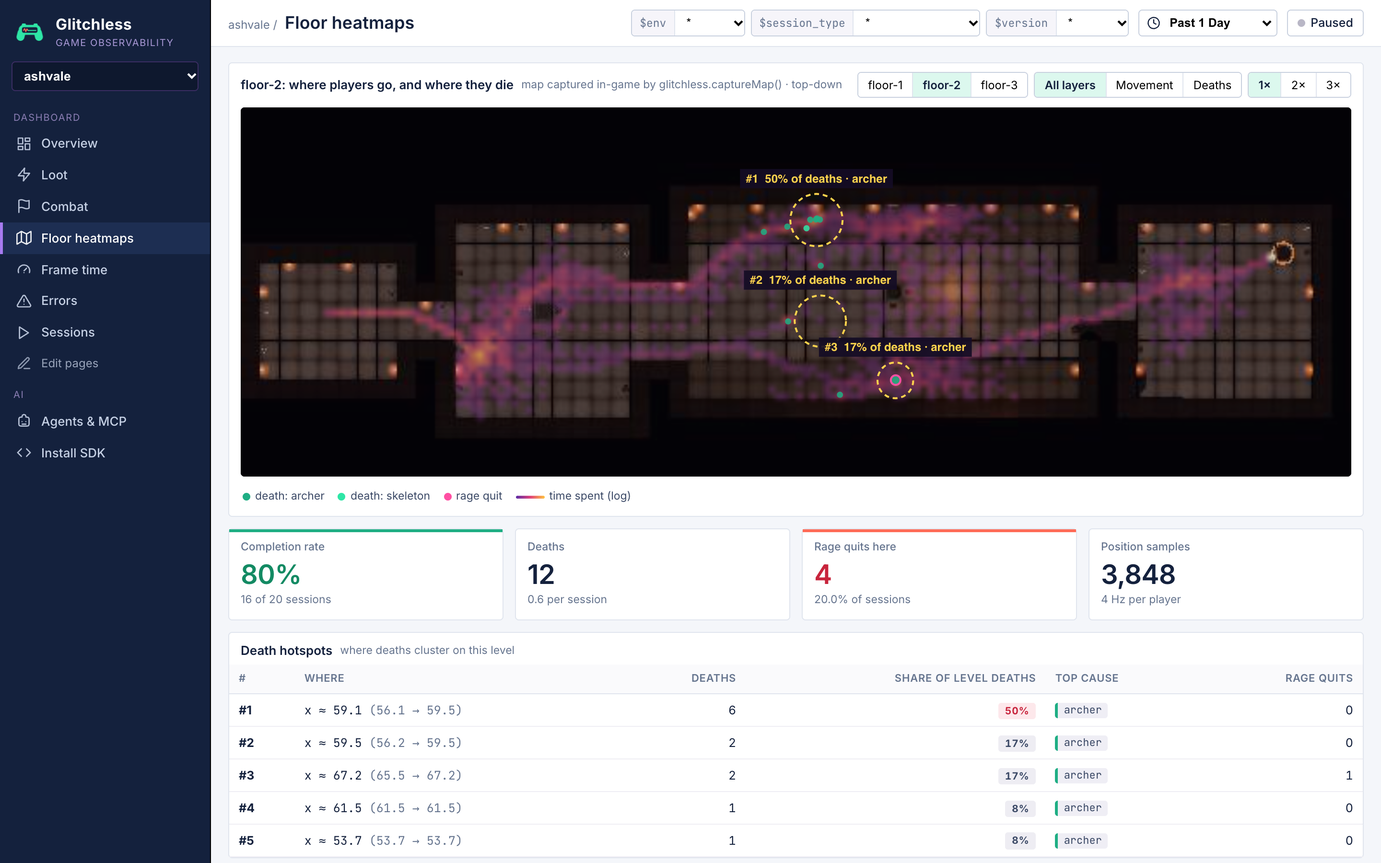
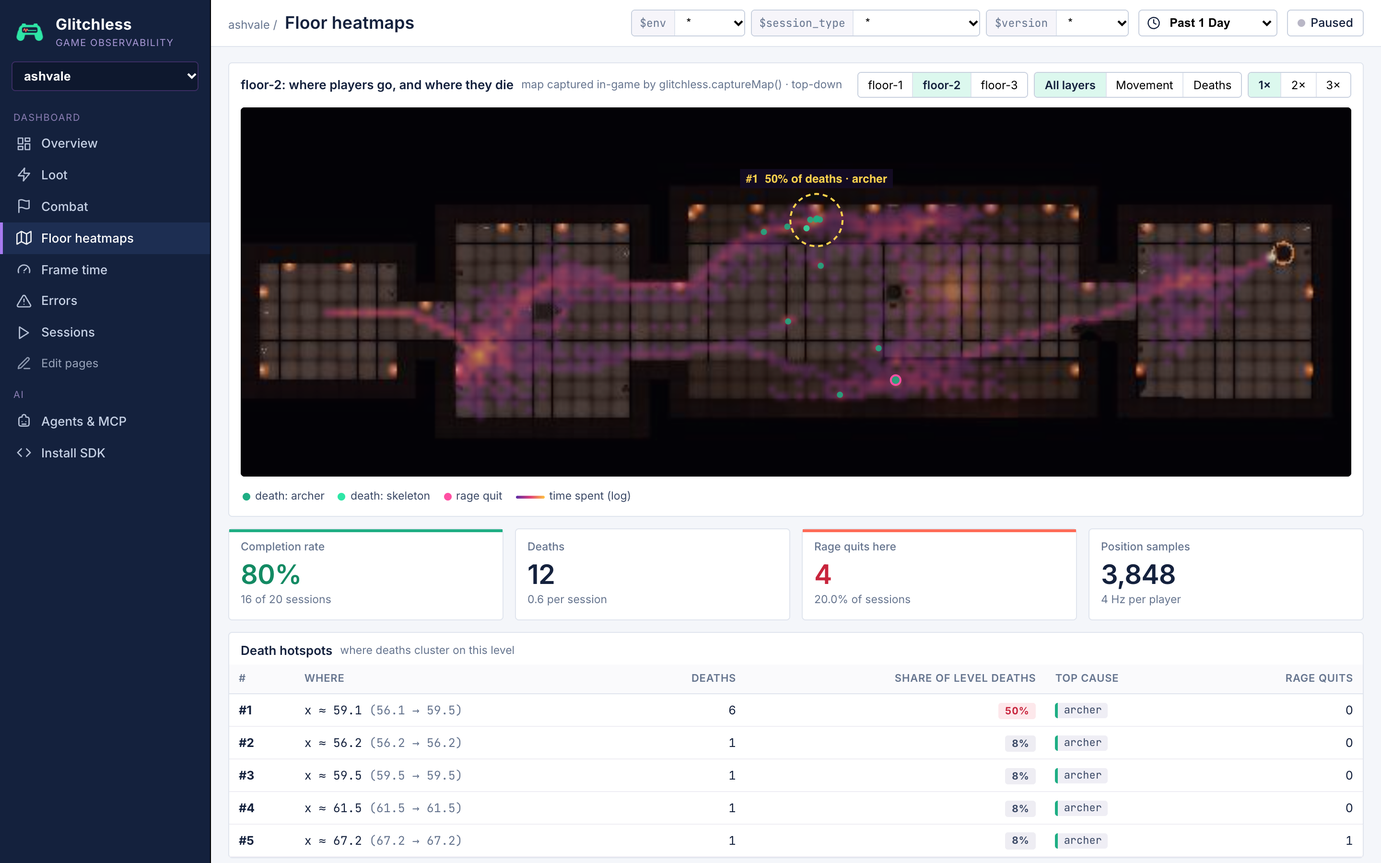
Findings refreshed for the server's genre-aware rules
The local Glitchless server now judges these games on their own terms, so the
READMEs and the captures that showed the old findings are updated:

- Walls without deaths are findings: Gatekeep's wave 7, Gemfall's level 6,
  Blastpit's round 3.
- Gatekeep's health-bar texture leak is a finding.
- Flapjack has no rage quits (an endless game ends every run in a death), and
  its hotspot says where runs end.
- Climbing gauges join the leak findings (Slipstream's skid_marks, Gemfall's
  particles, Flapjack's pipes) or stand alone (Ashvale's damage_numbers).
- Top-down hotspots give x and z (Slipstream, Ashvale), and Undervault's rage
  quits land on the spike pit.
- Errors players play through no longer count as crashes: Blastpit, Gemfall
  and Ashvale are 100% crash-free, so the planted errors are called errors.

18 dashboard captures re-shot; the rest read the same. Blastpit's are shot
with $env = prod, leaving out two short dev-env visits that arrived later.

Changed region(s): [[0.5938, 0.3733, 0.7188, 0.4356], [0.5312, 0.3111, 0.6562, 0.3422]]

diff --git a/games/ashvale/README.md b/games/ashvale/README.md
@@ -144,8 +144,8 @@ Search for `GLITCHLESS-DEMO`.
 
 | # | Problem | Where | What happens | What Glitchless should show |
 | --- | --- | --- | --- | --- |
-| 1 | **Damage numbers that are never removed** (a DOM leak the GPU never sees) | `src/numbers.js:8-10` (the `numbers` list nothing is taken out of), `:27-31` (`animationend` only sets `opacity: 0`), `:36-46` (`updateNumbers`: every number ever made, every frame, `offsetWidth` read at :43 after the previous number's `style.transform` write at :45); called from `src/main.js:623`, numbers made by `showHit()` at `src/main.js:233` | Every hit, burn tick, XP gain, gold pickup and heal adds a `<div>` with a `<span>` per character (a run makes 400-550 numbers, 1,000-2,000 nodes). When the float-up animation ends the number is only hidden. Each frame the game still projects every one of them with `vector.project(camera)`, reads its `offsetWidth` and writes its `style.transform`, so style recalculation and layout run once per dead number. The cost grows all session and peaks in the boss fight, where novas and burn ticks pile on numbers. Draw calls, geometries and programs stay flat: the three.js counters see nothing | Frame time and hitches climbing floor by floor (worst on floor-3), the `damage_numbers` gauge climbing all session and high in the slow windows, hitch cause `script` (Long Animation Frames), flat draw calls. `ashvale_spawn_hits` reproduces it on demand. (unmeasured: machine busy; on the test run the gauge went 0 → 1,962 and floor-3 p95 read 33 ms vs 16.8 on floors 1-2) |
-| 2 | **The legendary crash** (an error in one item type) | `src/gear.js:11-18` (`RARITY_STATS` has `common`, `magic`, `rare`, no `legendary`), throws at `src/gear.js:59` in `compare()`, called from `src/sim.js:942` (`pickUp`) right after the `loot` event at `src/sim.js:939` | Walking onto a legendary sends `loot {rarity: legendary}`, then `compare()` throws `TypeError: Cannot read properties of undefined (reading 'mult')`. The item stays on the floor (its orange beam keeps shining) and is never equipped; the rest of that frame is skipped and the loop carries on. Stepping onto it again throws again. Legendaries are 3.5% of gear drops (about 1 run in 5 finds one), and the Ash Lord always drops one | An unhandled error issue at `compare (gear.js:59)` in every session that beats the Ash Lord and a few others, on `floor-3` (and wherever a random legendary dropped), with `loot` as the breadcrumb right before it; `loot` with `rarity: legendary` but no `equip` with it. The scratch server showed 8 occurrences in 3 of 7 sessions, on floor-1 and floor-3, "typically right after: skill → skill → kill → loot" |
+| 1 | **Damage numbers that are never removed** (a DOM leak the GPU never sees) | `src/numbers.js:8-10` (the `numbers` list nothing is taken out of), `:27-31` (`animationend` only sets `opacity: 0`), `:36-46` (`updateNumbers`: every number ever made, every frame, `offsetWidth` read at :43 after the previous number's `style.transform` write at :45); called from `src/main.js:623`, numbers made by `showHit()` at `src/main.js:233` | Every hit, burn tick, XP gain, gold pickup and heal adds a `<div>` with a `<span>` per character (a run makes 400-550 numbers, 1,000-2,000 nodes). When the float-up animation ends the number is only hidden. Each frame the game still projects every one of them with `vector.project(camera)`, reads its `offsetWidth` and writes its `style.transform`, so style recalculation and layout run once per dead number. The cost grows all session and peaks in the boss fight, where novas and burn ticks pile on numbers. Draw calls, geometries and programs stay flat: the three.js counters see nothing | Frame time and hitches climbing floor by floor (worst on floor-3), the `damage_numbers` gauge climbing all session and high in the slow windows, hitch cause `script` (Long Animation Frames), flat draw calls, and a memory finding for the gauge (*`damage_numbers` keeps climbing*). `ashvale_spawn_hits` reproduces it on demand. (unmeasured: machine busy; on the test run the gauge went 0 → 1,962 and floor-3 p95 read 33 ms vs 16.8 on floors 1-2) |
+| 2 | **The legendary error** (an error in one item type) | `src/gear.js:11-18` (`RARITY_STATS` has `common`, `magic`, `rare`, no `legendary`), throws at `src/gear.js:59` in `compare()`, called from `src/sim.js:942` (`pickUp`) right after the `loot` event at `src/sim.js:939` | Walking onto a legendary sends `loot {rarity: legendary}`, then `compare()` throws `TypeError: Cannot read properties of undefined (reading 'mult')`. The item stays on the floor (its orange beam keeps shining) and is never equipped; the rest of that frame is skipped and the loop carries on. Stepping onto it again throws again. Legendaries are 3.5% of gear drops (about 1 run in 5 finds one), and the Ash Lord always drops one | An unhandled error issue at `compare (gear.js:59)` in every session that beats the Ash Lord and a few others, on `floor-3` (and wherever a random legendary dropped), with `loot` as the breadcrumb right before it; `loot` with `rarity: legendary` but no `equip` with it. The scratch server showed 8 occurrences in 3 of 7 sessions, on floor-1 and floor-3, "typically right after: skill → skill → kill → loot" |
 | 3 | **The Archers' Gallery** (difficulty spike on one floor) | `src/floors.js:90-106` (six ledge archers and the gallery's `archer` overrides at :106: 40 base health vs 30, arrows at 28 m/s vs 11, a 0.32 s draw vs 0.7, a 0.9 s reload vs 2.2, range 22 m, 17 damage), the ledges at `:124-127`, the one (broken) pillar at `:130` | Six archers on the raised ledges along both long walls fire into a 12 m-wide hall with one broken pillar for cover, faster than anywhere else in the game. Arrows from the far side arrive in about half a second, so only quick players roll out of them. Dying sends you back to the floor's start, through the guard room again | `floor-2` with the worst completion (scratch server: floor-1 100%, floor-2 50%, floor-3 60%; the simulated batch 100 / 52 / 83%), deaths clustered in the gallery on the floor-2 heatmap, `archer` as the top cause, rage quits ending there, and a design finding "Difficulty spike on floor-2 at x≈58.5: 40% of the level's deaths" |
 
 ## Files
@@ -185,11 +185,13 @@ What Glitchless found in 20 bot sessions (`npm run bots -- --game http://localho
 
 - **high, stability:** *TypeError: Cannot read properties of undefined (reading 'mult')* at `compare (gear.js:59)`, 38
   times in 15 of 20 sessions, "typically right after: kill → skill → kill → loot". On the Loot page, 38 legendaries
-  dropped and 0 were equipped.
-- **medium, design:** *Difficulty spike on floor-2 at x≈59.1: 50% of the level's deaths*, mostly `archer`: the
-  Archers' Gallery, with floor 2's completion 20 points below floor 1 and 4 runs given up there.
-- **The damage-number leak shows in its gauge, not in the findings:** `damage_numbers` climbs to 1,400–1,960 nodes by
-  the Ash Lord, and floor 3 runs 2.6% of frames over budget (one session 12%), with hitches named `script`. On an M3 Max
-  that is too little for a frame-time finding; a slower machine would show it.
+  dropped and 0 were equipped. The run carries on after it, so no session counts as crashed.
+- **medium, memory:** *`damage_numbers` keeps climbing: median 0 → 1,466 per session*: in all 20 sessions the gauge was
+  still at its peak when the session ended (1,400–1,960 nodes by the Ash Lord). Floor 3 runs 2.6% of frames over budget
+  (one session 12%), with hitches named `script`: on an M3 Max too little for a frame-time finding, so the gauge is what
+  catches the leak.
+- **medium, design:** *Difficulty spike on floor-2 at x≈59.1, z≈11.6: 50% of the level's deaths*, mostly `archer`, in
+  x 56.1 to 59.5, z 11.4 to 12.4: the Archers' Gallery, with floor 2's completion 20 points below floor 1 and 4 runs
+  given up there.
 
 ![The Ashvale dashboard](../../assets/screenshots/ashvale-dashboard.png)

diff --git a/games/gemfall/README.md b/games/gemfall/README.md
@@ -154,9 +154,9 @@ Search for `GLITCHLESS-DEMO`.
 
 | # | Problem | Where | What happens | What Glitchless shows (16 bot sessions on a local server) |
 | --- | --- | --- | --- | --- |
-| 1 | **Level 6 is a wall** (a difficulty spike with no deaths) | `src/levels.js:74-86` | Level 5 asks for 15 stones in 22 moves with five colours. Level 6 asks for 40 stones (five full rows) in 16 moves with six colours, so far fewer cascades. It reads as "the next quarry level" and plays as a brick wall: even the 0.95 bot ran out of moves at 38-39 of 40. | The level funnel: `level-6` completion **16.7%** (2 of 12 sessions) with **31 fails in 33 attempts**, against 92-100% on every other level. **10 of the 12 rage quits** (a session ending right after a `levelFail`) are on level 6. `level_result` has `stars: 0` with `moves_left: 0` as its most common value (42 of 121). There are no deaths, so there is no ranked design finding for it: Glitchless builds those from death positions. |
+| 1 | **Level 6 is a wall** (a difficulty spike with no deaths) | `src/levels.js:74-86` | Level 5 asks for 15 stones in 22 moves with five colours. Level 6 asks for 40 stones (five full rows) in 16 moves with six colours, so far fewer cascades. It reads as "the next quarry level" and plays as a brick wall: even the 0.95 bot ran out of moves at 38-39 of 40. | The level funnel: `level-6` completion **16.7%** (2 of 12 sessions) with **31 fails in 33 attempts**, against 92-100% on every other level. **10 of the 12 rage quits** (a session ending right after a `levelFail`) are on level 6. `level_result` has `stars: 0` with `moves_left: 0` as its most common value (42 of 121). There are no deaths, so its ranked design finding comes from the completion rate: *level-6 is a wall*. |
 | 2 | **Cascade particles never cleaned up** (stutter plus a leak) | `src/fx.js:129-159` (`burst()`: new geometry at 140, new material at 143, added at 150, the glint at 153); `src/fx.js:228` (shards only hidden) and `src/fx.js:237` (glints only faded); the `particles` gauge at `src/main.js:721` | Every cleared gem spawns 12 shard meshes, each with its own geometry and material, plus a glint. A combo that clears 40-60 gems in one step makes 500-900 meshes in one frame (`gemfall_cascade`: 58 gems → 876 shards, geometries 25 → 902). Nothing is ever removed or disposed: shards are hidden when they fade, glints are faded to opacity 0 and keep drawing. | A **high "Geometry leak in 1.0.0: +1178 geometries per level load"** finding (median 26 → 9,807 geometries per session). Draw calls climb level by level, from 128 on level-1 to 862 on level-8 (max 1,351). The `particles` gauge reaches ~10,000. Hitches attributed to `geometry_upload` (4 so far). The size of the cascade hitch is **unmeasured: machine busy** (the bots ran while other apps were compiling, so frame times are not representative). |
-| 3 | **The hint crashes at the right edge** (a silent error) | `src/board.js:220-226` (`findHint`, throws at 226), called from the idle-hint timer at `src/main.js:199-202` | `findHint()` reads the right-hand neighbour without a `c + 1 < COLS` check. When no move is found before the scan reaches the end of row 0 (no move touches the top row), `grid[0][8]` is undefined: `TypeError: Cannot read properties of undefined (reading 'kind')` from a timer callback. The hint never shows, the player gets no help, and the game keeps going. Shaped boards make it more likely. | A **high stability finding**: `TypeError: Cannot read properties of undefined (reading 'kind')` at `findHint (board.js:226)`, 15 times in **9 of 16 sessions (56%)**, on levels 2-7, with `swap → match → swap` breadcrumbs. Only 16 `hint_shown` events came out of all the idle pauses. |
+| 3 | **The hint throws at the right edge** (a silent error) | `src/board.js:220-226` (`findHint`, throws at 226), called from the idle-hint timer at `src/main.js:199-202` | `findHint()` reads the right-hand neighbour without a `c + 1 < COLS` check. When no move is found before the scan reaches the end of row 0 (no move touches the top row), `grid[0][8]` is undefined: `TypeError: Cannot read properties of undefined (reading 'kind')` from a timer callback. The hint never shows, the player gets no help, and the game keeps going. Shaped boards make it more likely. | A **high stability finding**: `TypeError: Cannot read properties of undefined (reading 'kind')` at `findHint (board.js:226)`, 15 times in **9 of 16 sessions (56%)**, on levels 2-7, with `swap → match → swap` breadcrumbs. Only 16 `hint_shown` events came out of all the idle pauses. |
 
 Also expected in the data (game design, not bugs): level 4 (crowns) is where low-skill bots restart, and shaped
 boards (levels 2, 4, 7, 8) are where `reshuffle` happens (10 in 9 sessions).
@@ -195,12 +195,14 @@ no deaths and no world to map, so there are no heatmaps or deaths panels: a wall
 What Glitchless found in 20 bot sessions (`npm run bots -- --game http://localhost:5180/`, on a quiet M3 Max):
 
 - **high, memory:** *Geometry leak in 1.0.0: +1240 geometries per level load*: from 26 to about 9,900 per session, "never
-  comes back down". The cascade shards. Draw calls climb with it, 136 on level 1 to 951 on level 8; on an M3 Max frame
-  time still holds at 16.8 ms, so here the leak shows as memory and draw calls, not stutter.
+  comes back down". The cascade shards; the finding also names the `particles` gauge, which keeps climbing with it (0 to
+  about 9,850 a session). Draw calls climb with it, 136 on level 1 to 951 on level 8; on an M3 Max frame time still
+  holds at 16.8 ms, so here the leak shows as memory and draw calls, not stutter.
+- **high, design:** *level-6 is a wall: 36.8% of the sessions that reach it get through*: 7 of the 19 runs that reach it,
+  after 42 failed tries, with every other level at 86–100%; 12 of the 20 runs end there. A puzzle has no deaths, so this
+  finding comes from completion rather than from where players die.
 - **high, stability:** *TypeError: Cannot read properties of undefined (reading 'kind')* at `findHint (board.js:226)`,
-  14 times in 7 of 20 sessions (35%), on six different levels: the idle hint looking past the board's right edge.
-- **The level 6 wall shows on the boards, not in the findings:** level 6 is cleared in 7 of the 19 runs that reach it,
-  after 42 failed tries, with every other level at 86–100%; 12 of the 20 runs end there. Glitchless raises no finding
-  for it, because its difficulty findings come from where players die, and a puzzle has no deaths.
+  14 times in 7 of 20 sessions (35%), on six different levels: the idle hint looking past the board's right edge. The
+  game carries on after it, so no session counts as crashed.
 
 ![The Gemfall dashboard](../../assets/screenshots/gemfall-dashboard.png)

diff --git a/games/gatekeep/README.md b/games/gatekeep/README.md
@@ -124,8 +124,8 @@ Each is marked `// GLITCHLESS-DEMO:` in the code.
 
 | # | Problem | Where | What happens | What Glitchless should show |
 | --- | --- | --- | --- | --- |
-| 1 | **Wave 7 armor spike** | `src/rules.js:52-56` (brutes take 25% from arrows), `src/rules.js:80-82` (wave 7) | Six waves of grunts and runners reward cheap arrow towers. Wave 7 is 12 armored brutes, unannounced; arrows barely scratch them and each leak costs 2 lives. Arrow-heavy defenses leak most of the wave and the run ends there. | `wave-7` with by far the worst completion in the levels table; `leak` by `$level` spiking on `wave-7` (mostly `enemy: brute`); `run_end` `wave` piling up at 7; `levelFail` cause `brute` |
-| 2 | **A health-bar texture per enemy** | `src/healthbars.js:24-44` (`createHealthBar`), `:46-76` (`redraw`: on every hit, and on every frame while a new bar fills up or a damage chunk drains, `:85-92`), `:94-101` (`removeHealthBar`, never disposes); called from `src/main.js:87`, `:104`, `:163`, `:482`; the swarm is `src/rules.js:88-98` | Each enemy gets its own 128x16 canvas, `CanvasTexture` and `SpriteMaterial`. The bar is redrawn (with a soft `shadowBlur` under the frame) and re-uploaded on every hit and on every frame while it fills up from empty or drains a damage chunk. Wave 9 pours 120 swarmlings out of the cave within about a second, twice, four seconds apart: 100–240 canvas redraws and texture uploads land in single frames. Dead and leaked enemies' textures are never disposed. Measured on this M3 Max (Chrome 156, headless, 1280x720): wave 9 runs at p95 50–67 ms with 19–36 frames over 50 ms per run, while waves 8 and 10 stay at 16.7 ms; with one shared texture the same runs stay at 16.8 ms. | hitches and a frame-time p95 jump on `wave-9`, with `health_bars` and `enemies` near 200 in those windows; the renderer's `textures` (Glitchless overlay, `gatekeep_get_state`) climbing all run (+1 per enemy, ~400 after a full run) and never coming down |
+| 1 | **Wave 7 armor spike** | `src/rules.js:52-56` (brutes take 25% from arrows), `src/rules.js:80-82` (wave 7) | Six waves of grunts and runners reward cheap arrow towers. Wave 7 is 12 armored brutes, unannounced; arrows barely scratch them and each leak costs 2 lives. Arrow-heavy defenses leak most of the wave and the run ends there. | `wave-7` with by far the worst completion in the levels table; `leak` by `$level` spiking on `wave-7` (mostly `enemy: brute`); `run_end` `wave` piling up at 7; `levelFail` cause `brute`; a design finding, *wave-7 is a wall* |
+| 2 | **A health-bar texture per enemy** | `src/healthbars.js:24-44` (`createHealthBar`), `:46-76` (`redraw`: on every hit, and on every frame while a new bar fills up or a damage chunk drains, `:85-92`), `:94-101` (`removeHealthBar`, never disposes); called from `src/main.js:87`, `:104`, `:163`, `:482`; the swarm is `src/rules.js:88-98` | Each enemy gets its own 128x16 canvas, `CanvasTexture` and `SpriteMaterial`. The bar is redrawn (with a soft `shadowBlur` under the frame) and re-uploaded on every hit and on every frame while it fills up from empty or drains a damage chunk. Wave 9 pours 120 swarmlings out of the cave within about a second, twice, four seconds apart: 100–240 canvas redraws and texture uploads land in single frames. Dead and leaked enemies' textures are never disposed. Measured on this M3 Max (Chrome 156, headless, 1280x720): wave 9 runs at p95 50–67 ms with 19–36 frames over 50 ms per run, while waves 8 and 10 stay at 16.7 ms; with one shared texture the same runs stay at 16.8 ms. | hitches and a frame-time p95 jump on `wave-9`, with `health_bars` and `enemies` near 200 in those windows; the renderer's `textures` (Glitchless overlay, `gatekeep_get_state`) climbing all run (+1 per enemy, ~400 after a full run) and never coming down: a *Texture leak* finding |
 
 ## Dashboard
 
@@ -143,12 +143,16 @@ no avatar and no deaths, so there are no heatmaps and no deaths panels: its page
 
 What Glitchless found in the 20 bot sessions (`npm run bots -- --game http://localhost:5178/ --seed 5000`):
 
+- **high, memory:** *Texture leak in 1.0.0: +44 textures per level load*: the renderer's texture count goes from 3 to
+  about 400 a session (medians) and "never comes back down": one health-bar `CanvasTexture` per enemy, never disposed.
+  The advice: dispose textures you stop using, and share one texture instead of making one per object.
+- **high, design:** *wave-7 is a wall: 63.2% of the sessions that reach it get through*: 12 of 19, with every other wave
+  at 92–100%. A tower defense game has no deaths, so this finding comes from completion rather than from where players
+  die: 7 fails end the attempts, 135 of the 203 leaks are on wave 7, and 7 of the 9 lost runs end there (`run_end` by
+  `wave`).
 - **high, performance:** *Frame-time spikes on wave-9: p95 49.42ms vs 16.7ms budget*: 18.8% of wave 9's frames over budget,
   20 hitches a minute, every other wave at 16.78 ms. The hitches' top cause is `texture_upload` (48), and the advice
   says "a CanvasTexture per object, or needsUpdate on every change: share one texture or atlas".
-- **The wave 7 wall shows on the boards, not in the findings:** wave-7 completion is 63% (every other wave 92–100%),
-  135 of the 203 leaks are on wave 7, and 7 of the 9 lost runs end there (`run_end` by `wave`). Glitchless raises no
-  finding for it: its difficulty findings come from where players die, and a tower defense game has no deaths.
 - Arrows are the most-built tower (112) but cannons do the killing (3,653 of 4,994 kills): the adaptation the wave
   teaches.
 

diff --git a/games/flapjack/README.md b/games/flapjack/README.md
@@ -138,8 +138,8 @@ Each one is marked in the code with `// GLITCHLESS-DEMO:`.
 | 1 | **The squeeze at pipe 12** (difficulty spike) | `src/course.js:80-89` (the override), constants at `src/course.js:25-27` | A "fun twist" right after the bronze medal: pipe 12's gap shrinks from ~3.5 to 2.3 units (0.73 of room above and below the bird) and sits 4.4 units above pipe 11's (3.86 → 8.26). The bird has to climb nearly all of it in one pipe spacing and stop dead. Low skill doesn't see it coming (it looks less far ahead) and arrives low; most runs that get there end there with 11 points | A design finding on `sky`: after four bot sessions, *"Difficulty spike on sky at x≈61.5: 45% of the level's deaths"* (9 of 20, x 58.8-63.1, all `pipe`); the heatmap's top hotspot at pipe 12's leading edge (pipe 12 is x = 62.8); `run_end` with `score: 11` in 8 of 20 runs and `cause: pipe` |
 | 2 | **Pipes that are never recycled** (a leak, and frame time that worsens with every retry) | `src/pipes.js:99-122`: `spawnPipe()` at line 106 builds ~20 meshes per pair, each with its own new geometry and material, and never removes or disposes them; `update()` at line 121 hides pipes off screen and shows them again when they're back; `rewind()` at line 114, called from `src/main.js:101-103`, is all a retry does | Every run builds the course again on top of every earlier run's meshes, at exactly the same places (the course never changes), so nothing looks wrong. Each copy on screen is drawn again, plus its shadow. A low-skill session ends with ~100 pipe pairs (~2,000 geometries) in the scene, and the early course drawn 8 times over: 2,300+ draw calls where one run needs ~350 | A high memory finding: *"Geometry leak in 1.0.0: +322 geometries per level load"* (median 102 → 2,035 over 3 sessions). In a session's frame windows, `geometries` climbs from 102 to 2,061 and the `pipes` gauge from 5 to 106 over two minutes, with draw calls rising with each retry (252 → 2,325). Frame time late in sessions: unmeasured, the machine was busy compiling during these runs (the overlay held 16.8 ms p95 at 2,300 draw calls under vsync) |
 
-Also in the data, by design: every session counts as a rage quit, because every flappy session ends a few seconds
-after a death (the server calls a session that ends within 20 s of a fail a rage quit).
+Also in the data, by design: every flappy session ends a few seconds after a death. Glitchless sees that no run ever
+completes a level, so it doesn't count those as rage quits.
 
 ## Files
 
@@ -175,10 +175,11 @@ win, so there's no levels table (its one level would read 0% completion): the bo
 
 What Glitchless found in 20 bot sessions (100 runs; `npm run bots -- --game http://localhost:5181/`, on a quiet M3 Max):
 
-- **medium, design:** *Difficulty spike on sky at x≈61.5: 48% of the level's deaths*, 48 of 100, all `pipe`: pipe 12.
-  The board says it more plainly: 47 of the 100 runs end at a score of 11. The same finding also reads "Completion rate
-  is 0% and 20 sessions rage-quit here (100%)": an endless game has no win, so every session ends right after a death.
 - **high, memory:** *Geometry leak in 1.0.0: +384 geometries per level load*, from about 100 to 1,850 a session: the
-  pipes that are hidden instead of recycled. Draw calls reach about 1,200; on an M3 Max frame time still holds at 16.8 ms.
+  pipes that are hidden instead of recycled. The finding also names the `pipes` gauge, which keeps climbing with it (5 to
+  94 a session). Draw calls reach about 1,200; on an M3 Max frame time still holds at 16.8 ms.
+- **medium, design:** *Difficulty spike on sky at x≈61.5: 48% of the level's deaths*, 48 of 100, all `pipe`: pipe 12.
+  The board says it more plainly: 47 of the 100 runs end at a score of 11. No run ever completes a level, so Glitchless
+  counts no rage quits and says instead that every run ends in a death, and more of them end here than anywhere else.
 
 ![The Flapjack dashboard](../../assets/screenshots/flapjack-dashboard.png)

diff --git a/games/blastpit/README.md b/games/blastpit/README.md
@@ -104,7 +104,8 @@ Search for `GLITCHLESS-DEMO`.
 | 2 | **Swarm spawn stutter** (lights per enemy) | `src/enemies.js:110-146` (`spawnSwarmer`: material clone at 116, three `PointLight`s at 132-142); corpses are cleared in batches in `src/main.js:500-510` | Every swarmer brings two eye lights and an underglow light, and its own material. 30 at once take the scene from 8 lights to 98. three.js recompiles every material's shader for the new light count (the frame of the spawn), and again every time a batch of dead swarmers is cleared away. Meanwhile every lit pixel loops over 95 point lights, so round 3 runs at 20-30 fps on an M3 Max at 1280x720 until the swarm thins out. Uncached shader compiles at 60-98 lights take 0.5-2.5 s (a frozen frame); once Chrome/Metal have them cached, 50-170 ms. | A critical/high "frame-time spikes on round-3" finding: p95 ~49-65 ms vs 16.8 on rounds 1-2, ~16-22% of round-3 frames over budget, hitches with cause `shader_compile`, and `lights` as the correlated gauge (median 80-86 during hitches vs 8 otherwise) |
 
 Also expected in the data (game design, not bugs): round 3 is where low-skill players die (70-75% completion
-for the bots, almost all deaths `swarmer`), and `own_rocket` deaths from rockets fired at close range.
+for the bots, almost all deaths `swarmer`; Glitchless calls it a wall), and `own_rocket` deaths from rockets fired at
+close range.
 
 ## The bot (`src/autoplay.js`)
 
@@ -165,11 +166,14 @@ a busy or battery-throttled machine were left out, since they turn every round's
 - **high, stability:** *TypeError: Cannot read properties of undefined (reading 'hp')*, 100 times in 12 of 12 sessions,
   on all three rounds, "start at `fireShotgun (weapons.js:141)`", breadcrumbs `hit → weapon_switch → shot → kill`. On
   the Weapons page the shotgun's accuracy reads 56.6% against the pistol's 59.9%, although it's the close-range
-  weapon: blasts that throw never send their `hit`.
+  weapon: blasts that throw never send their `hit`. The round plays on through it, so every session still counts as
+  crash-free.
 - **high, performance:** *Frame-time spikes on round-3: p95 49.42ms vs 16.7ms budget*: 16% of round 3's frames over
   budget and 22 hitches a minute, rounds 1 and 2 at 16.78 ms. "Hitches coincide with high `lights` (median 89 during
   hitches vs 8 otherwise)", and the advice is to keep the number of lights constant (a light pool, or emissive glow
   instead of a light per enemy). The hitches' causes: `shader_compile` 81, `render` 74, `script` 77.
-- Round 3 is also the hardest: 64% completion, 13 of 16 deaths, 11 of them to swarmers.
+- **high, design:** *round-3 is a wall: 63.6% of the sessions that reach it get through*: 7 of 11, after 100% on round 1
+  and 92% on round 2. Its 13 deaths (11 to swarmers) are spread across the arena rather than at one spot, and 4 of the 5
+  rage quits are on round 3.
 
 ![The Blastpit dashboard](../../assets/screenshots/blastpit-dashboard.png)

diff --git a/README.md b/README.md
@@ -11,9 +11,9 @@ its coding agent designed for it. None of them is a platformer: that's the point
 | [**Slipstream**](games/slipstream) | arcade racer | laps and lap times, wrecks by track section, finishing positions, boosts, overtakes, tracks | a boost pad into a hairpin, a skid-mark leak that slows every race | 5177 |
 | [**Gatekeep**](games/gatekeep) | tower defense | towers built, upgraded and sold, gold spent, leaks and kills, waves | a wave that ends most runs, a health-bar texture per enemy that stutters in big waves | 5178 |
 | [**Undervault**](games/undervault) | metroidvania (2.5D) | rooms visited and backtracking, relics found, saves, boss attempts | a room that kills most players, an error that only fires when you backtrack | 5179 |
-| [**Gemfall**](games/gemfall) | match-3 puzzle | matches by size, shape and cascade depth, specials made and used, boosters, hints, stars and moves left per level | a level that's a wall, a cascade effect that leaks, a hint that crashes at the board's edge | 5180 |
+| [**Gemfall**](games/gemfall) | match-3 puzzle | matches by size, shape and cascade depth, specials made and used, boosters, hints, stars and moves left per level | a level that's a wall, a cascade effect that leaks, a hint that throws at the board's edge | 5180 |
 | [**Flapjack**](games/flapjack) | one-button flappy | runs and where they end, medals, biomes, new bests, retries | a squeeze at pipe 12, pipes that are never recycled | 5181 |
-| [**Ashvale**](games/ashvale) | action RPG (top-down) | kills, loot and gear by rarity and slot, level-ups, skills, rooms cleared, boss attempts, floors | a legendary item that crashes the game, an overtuned floor, damage numbers that pile up in the page | 5182 |
+| [**Ashvale**](games/ashvale) | action RPG (top-down) | kills, loot and gear by rarity and slot, level-ups, skills, rooms cleared, boss attempts, floors | a legendary item that throws when you pick it up, an overtuned floor, damage numbers that pile up in the page | 5182 |
 
 Every game's README lists its events, its planted problems (with file:line), its dashboard pages and what Glitchless
 found when bots played it. Screenshots of each game and its dashboard are in [`assets/screenshots`](assets/screenshots).

diff --git a/games/slipstream/README.md b/games/slipstream/README.md
@@ -180,14 +180,16 @@ deaths (the car respawns at the last checkpoint), so the deaths panels and the h
 What Glitchless found in the 20 bot sessions (`npm run bots -- --game http://localhost:5177/ --seed 5000`):
 
 - **high, memory:** *Geometry leak in 1.0.0: +7441 geometries per level load*: from 47 to about 15,000 per session,
-  "never comes back down". The skid marks.
+  "never comes back down". The skid marks: the finding also names the `skid_marks` gauge, which keeps climbing with it
+  (0 to 15,186 in 20 of 20 sessions).
 - **medium, performance:** *Frame-time spikes on canyon* (p95 33 ms, 6.4% of frames over budget) and *on neon*
   (21.6% over budget), each with "`skid_marks` sits at 7,124 / 12,686 for this whole level vs 2,104 on harbor: objects
   created earlier are never cleaned up". Draw calls average 691 on harbor, 2,250 on canyon, 3,200 on neon. The hitches'
   causes name the uploads: `geometry_upload` 57, `shader_compile` 80, `render` 133.
-- **medium, design:** *Difficulty spike on canyon at x≈-48.4: 75% of the level's deaths*, all `wall`: the Cliff
-  Hairpin, right after the boost pad. 37 of the 47 wrecks are in `cliff_hairpin`, and 18 of the 20 sessions that hit
-  the pad at the bottom of the descent wrecked in the hairpin after it.
+- **medium, design:** *Difficulty spike on canyon at x≈-48.4, z≈-41: 64% of the level's deaths*, all `wall`: 30 of 47
+  in x -48.6 to -47.6, z -43.9 to -38.2, the Cliff Hairpin, right after the boost pad. 37 of the 47 wrecks are in
+  `cliff_hairpin`, and 18 of the 20 sessions that hit the pad at the bottom of the descent wrecked in the hairpin after
+  it.
 - Rivals wreck there too, so the hairpin is also where players overtake most (44 of 102).
 
 ![The Slipstream canyon heatmap](../../assets/screenshots/slipstream-dashboard-heatmap.png)

diff --git a/games/undervault/README.md b/games/undervault/README.md
@@ -168,7 +168,8 @@ long level, so the progression lives in events: the relics, the rooms and the bo
 What Glitchless found in the 20 bot sessions:
 
 - **high, design:** *Difficulty spike on undervault at x≈79.3: 67% of the level's deaths* (39 of 58, all `spikes`;
-  completion 70%, 6 sessions rage-quit). The heatmap's #1 hotspot is the Spike Gallery's pit.
+  completion 70%, 6 sessions rage-quit). The heatmap's #1 hotspot is the Spike Gallery's pit, and 4 of the 6 rage quits
+  happened there.
 - **high, stability:** *TypeError: Cannot read properties of null (reading 'reset')* at `enterRoom (main.js:241)`,
   86 times in 20 of 20 sessions, "typically right after: kill → room_enter → ability → room_enter". 45% of room
   entries were backtracking (`first: false`), and the error only fires on those.
